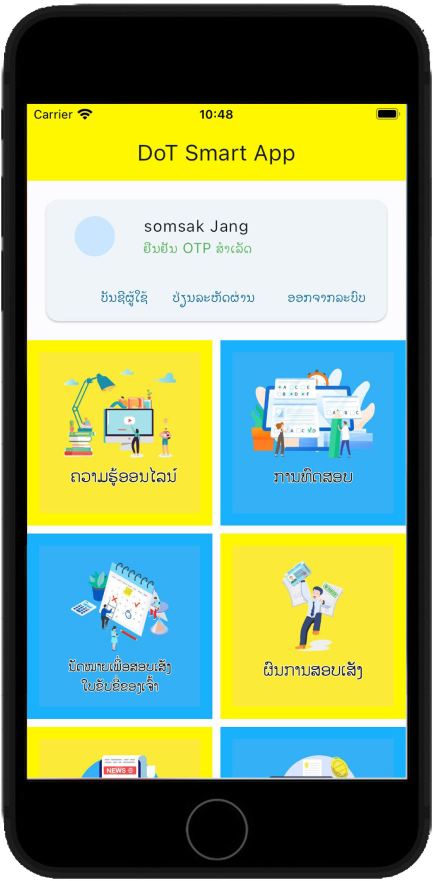
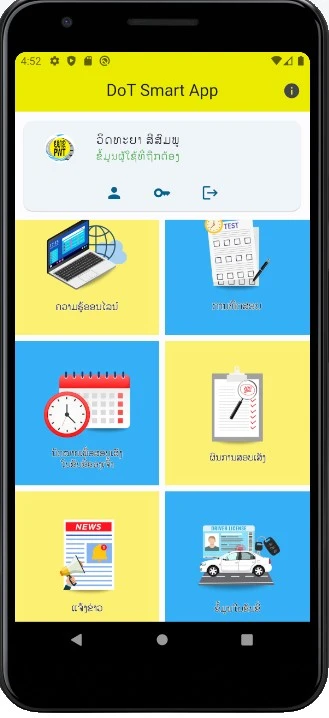
UpdateFeatureIcon

diff --git a/src/components/section-components/intro-use.jsx b/src/components/section-components/intro-use.jsx
@@ -14,10 +14,10 @@ const Intro = ({tran}) => {
                         <div className="col-sm-6 col-md-4">
                             <div className="single-intro-inner style-white text-center">
                                 <div className="thumb">
-                                    <img src={publicUrl+"assets/img/intro/1.png"} alt="img" />
+                                    <img src={publicUrl+"assets/img/featureIcon/22.png"} style={{ width:'90px', height:'90px' }} alt="img" />
                                 </div>
                                 <div className="details">
-                                    <h5 className='px-2 fw-bold'>Online learning Course</h5>
+                                    <h5 className='px-2 mt-1 fw-bold'>Online learning Course</h5>
                                     <p>At your own time and place, learn about traffic rule, sign, road safety, driving techniques, ethics, Maintenance ...etc</p>
                                 </div>
                             </div>
@@ -25,10 +25,10 @@ const Intro = ({tran}) => {
                         <div className="col-sm-6 col-md-4">
                             <div className="single-intro-inner style-white text-center">
                                 <div className="thumb">
-                                    <img src={publicUrl+"assets/img/intro/1.png"} alt="img" />
+                                    <img src={publicUrl+"assets/img/featureIcon/33.png"} style={{ width:'90px', height:'90px' }} alt="img" />
                                 </div>
                                 <div className="details">
-                                    <h5 className='px-2 fw-bold'>Practice Theory Test</h5>
+                                    <h5 className='px-2 mt-1 fw-bold'>Practice Theory Test</h5>
                                     <p>Try doing a theory test to familiarize the test questions and format for your selected license type</p>
                                 </div>
                             </div>
@@ -36,10 +36,10 @@ const Intro = ({tran}) => {
                         <div className="col-sm-6 col-md-4">
                             <div className="single-intro-inner style-white text-center">
                                 <div className="thumb">
-                                    <img src={publicUrl+"assets/img/intro/1.png"} alt="img" />
+                                    <img src={publicUrl+"assets/img/featureIcon/66.png"} style={{ width:'90px', height:'90px' }} alt="img" />
                                 </div>
                                 <div className="details">
-                                    <h5 className='px-2 fw-bold'>News Update</h5>
+                                    <h5 className='px-2 mt-1 fw-bold'>News Update</h5>
                                     <p>Got news update and announcement about driving license and activities from Department of Transport</p>
                                 </div>
                             </div>
@@ -47,10 +47,10 @@ const Intro = ({tran}) => {
                         <div className="col-sm-6 col-md-4">
                             <div className="single-intro-inner style-white text-center">
                                 <div className="thumb">
-                                    <img src={publicUrl+"assets/img/intro/1.png"} alt="img" />
+                                    <img src={publicUrl+"assets/img/featureIcon/44.png"} style={{ width:'90px', height:'90px' }} alt="img" />
                                 </div>
                                 <div className="details">
-                                    <h5 className='px-2 fw-bold'>Appointment for Exam</h5>
+                                    <h5 className='px-2 mt-1 fw-bold'>Appointment for Exam</h5>
                                     <p>Select your convenient time to take the driving license exam after your have fulfill all requirements</p>
                                 </div>
                             </div>
@@ -58,10 +58,10 @@ const Intro = ({tran}) => {
                         <div className="col-sm-6 col-md-4">
                             <div className="single-intro-inner style-white text-center">
                                 <div className="thumb">
-                                    <img src={publicUrl+"assets/img/intro/1.png"} alt="img" />
+                                    <img src={publicUrl+"assets/img/featureIcon/55.png"} style={{ width:'90px', height:'90px' }} alt="img" />
                                 </div>
                                 <div className="details">
-                                    <h5 className='px-2 fw-bold'>View Exam results</h5>
+                                    <h5 className='px-2 mt-1 fw-bold'>View Exam results</h5>
                                     <p>Check your driving license exam result after you have taken the exam and see your Driving license on the App!</p>
                                 </div>
                             </div>
@@ -69,10 +69,10 @@ const Intro = ({tran}) => {
                         <div className="col-sm-6 col-md-4">
                             <div className="single-intro-inner style-white text-center">
                                 <div className="thumb">
-                                    <img src={publicUrl+"assets/img/intro/1.png"} alt="img" />
+                                    <img src={publicUrl+"assets/img/featureIcon/11.png"} style={{ width:'90px', height:'90px' }} alt="img" />
                                 </div>
                                 <div className="details">
-                                    <h5 className='px-2 fw-bold'>Notify of Expiry</h5>
+                                    <h5 className='px-2 mt-1 fw-bold'>Notify of Expiry</h5>
                                     <p>Get notified when your driving license is abbout expire</p>
                                 </div>
                             </div>

diff --git a/src/components/about-app.jsx b/src/components/about-app.jsx
@@ -40,7 +40,7 @@ const about_app = () => {
                             <div className="col-sm-12 col-md-6 col-lg-4">
                                 <div className="single-intro-inner text-center">
                                     <div className="thumb">
-                                        <img src={publicUrl+"assets/img/intro/1.png"} alt="img" />
+                                        <img src={publicUrl+"assets/img/featureIcon/22.png"} style={{ width:'90px', height:'90px' }} alt="img" />
                                     </div>
                                     <div className="details">
                                         <p className='px-2 fw-bold'>Online learning Course</p>
@@ -51,7 +51,7 @@ const about_app = () => {
                             <div className="col-sm-12 col-md-6 col-lg-4">
                                 <div className="single-intro-inner text-center">
                                     <div className="thumb">
-                                        <img src={publicUrl+"assets/img/intro/1.png"} alt="img" />
+                                        <img src={publicUrl+"assets/img/featureIcon/33.png"} style={{ width:'90px', height:'90px' }} alt="img" />
                                     </div>
                                     <div className="details">
                                         <p className='px-2 fw-bold'>Practice Theory Test</p>
@@ -62,7 +62,7 @@ const about_app = () => {
                             <div className="col-sm-12 col-md-6 col-lg-4">
                                 <div className="single-intro-inner text-center">
                                     <div className="thumb">
-                                        <img src={publicUrl+"assets/img/intro/1.png"} alt="img" />
+                                        <img src={publicUrl+"assets/img/featureIcon/66.png"} style={{ width:'90px', height:'90px' }} alt="img" />
                                     </div>
                                     <div className="details">
                                         <p className='px-2 fw-bold'>News Update</p>
@@ -73,7 +73,7 @@ const about_app = () => {
                             <div className="col-sm-12 col-md-6 col-lg-4">
                                 <div className="single-intro-inner text-center">
                                     <div className="thumb">
-                                        <img src={publicUrl+"assets/img/intro/1.png"} alt="img" />
+                                        <img src={publicUrl+"assets/img/featureIcon/44.png"} style={{ width:'90px', height:'90px' }} alt="img" />
                                     </div>
                                     <div className="details">
                                         <p className='px-2 fw-bold'>Appointment for Exam</p>
@@ -84,7 +84,7 @@ const about_app = () => {
                             <div className="col-sm-12 col-md-6 col-lg-4">
                                 <div className="single-intro-inner text-center">
                                     <div className="thumb">
-                                        <img src={publicUrl+"assets/img/intro/1.png"} alt="img" />
+                                        <img src={publicUrl+"assets/img/featureIcon/55.png"} style={{ width:'90px', height:'90px' }} alt="img" />
                                     </div>
                                     <div className="details">
                                         <p className='px-2 fw-bold'>View Exam results</p>
@@ -95,7 +95,7 @@ const about_app = () => {
                             <div className="col-sm-12 col-md-6 col-lg-4">
                                 <div className="single-intro-inner text-center">
                                     <div className="thumb">
-                                        <img src={publicUrl+"assets/img/intro/1.png"} alt="img" />
+                                        <img src={publicUrl+"assets/img/featureIcon/11.png"} style={{ width:'90px', height:'90px' }} alt="img" />
                                     </div>
                                     <div className="details">
                                         <p className='px-2 fw-bold'>Notify of Expiry</p>
